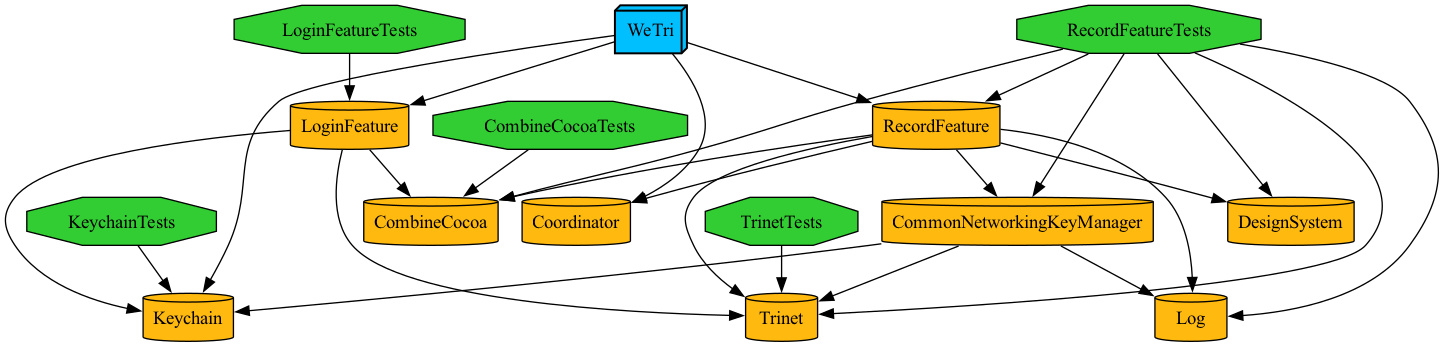
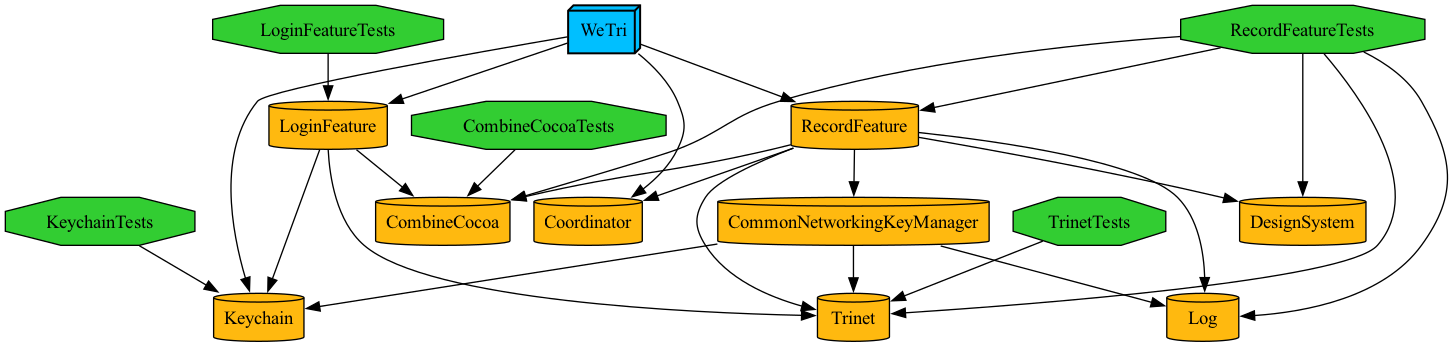
feat: 공통 Interceptor 생성

diff --git a/iOS/Projects/Shared/CommonNetworkingKeyManager/Sources/TNKeychainInterceptor.swift b/iOS/Projects/Shared/CommonNetworkingKeyManager/Sources/TNKeychainInterceptor.swift
@@ -1,0 +1,126 @@
+//
+//  TNKeychainInterceptor.swift
+//  ProjectDescriptionHelpers
+//
+//  Created by MaraMincho on 11/30/23.
+//
+
+import Foundation
+import Keychain
+import Log
+import Trinet
+
+// MARK: - TNKeychainInterceptor
+
+public final class TNKeychainInterceptor {
+  private let decoder = JSONDecoder()
+  public let shared = TNKeychainInterceptor()
+  private init() {}
+}
+
+// MARK: TNRequestInterceptor
+
+extension TNKeychainInterceptor: TNRequestInterceptor {
+  public func adapt(_ request: URLRequest, session _: URLSessionProtocol) -> URLRequest {
+    addAccessToken(request: request)
+  }
+
+  func addAccessToken(request: URLRequest) -> URLRequest {
+    guard let accessToken = TNKeyChainManager.accessToken else {
+      return request
+    }
+    var mutatableRequest = request
+    mutatableRequest.addValue(accessToken, forHTTPHeaderField: "Authorization")
+
+    return mutatableRequest
+  }
+
+  public func retry(
+    _ request: URLRequest,
+    session: URLSessionProtocol,
+    data: Data,
+    response: URLResponse,
+    delegate _: URLSessionDelegate?
+  ) async throws -> (Data, URLResponse) {
+    let code = try decoder.decode(GWResponse<String?>.self, from: data).code
+    if code == 401 {
+      try await refreshAccessToken(session: session)
+      try await refreshRefreshToken(session: session)
+      return try await session.data(for: request, delegate: nil)
+    }
+
+    return (data, response)
+  }
+}
+
+private extension TNKeychainInterceptor {
+  enum RefreshEndPoint: TNEndPoint {
+    case refreshAccessToken
+    case refreshRefreshToken
+    var path: String {
+      switch self {
+      case .refreshAccessToken:
+        return "api/v1/auth/token/access"
+      case .refreshRefreshToken:
+        return "api/v1/auth/token/refresh"
+      }
+    }
+
+    var method: TNMethod { .post }
+    var query: Encodable? { nil }
+    var body: Encodable? { nil }
+    var headers: TNHeaders { .default }
+  }
+
+  func refreshAccessToken(session: URLSessionProtocol) async throws {
+    let provider = TNProvider<RefreshEndPoint>(session: session)
+    let data = try await provider.request(.refreshAccessToken, interceptor: RefreshTokenAdaptor())
+    let gwResponse = try JSONDecoder().decode(GWResponse<RefreshAccessTokenResponse>.self, from: data)
+    guard
+      let token = gwResponse.data?.accessToken,
+      let tokenData = token.data(using: .utf8)
+    else {
+      throw TNError.serverError
+    }
+
+    Keychain.shared.save(key: "accessToken", data: tokenData)
+  }
+
+  func refreshRefreshToken(session: URLSessionProtocol) async throws {
+    let provider = TNProvider<RefreshEndPoint>(session: session)
+    let data = try await provider.request(.refreshRefreshToken, interceptor: RefreshTokenAdaptor())
+    let gwResponse = try JSONDecoder().decode(GWResponse<RefreshRefreshTokenResponse>.self, from: data)
+    guard
+      let token = gwResponse.data?.refreshToken,
+      let tokenData = token.data(using: .utf8)
+    else {
+      throw TNError.serverError
+    }
+
+    Keychain.shared.save(key: "refreshToken", data: tokenData)
+  }
+
+  enum TNKeyChainManager {
+    static var accessToken: String? {
+      guard
+        let accessTokenData = Keychain.shared.load(key: "accessToken"),
+        let accessToken = String(data: accessTokenData, encoding: .utf8)
+      else {
+        return nil
+      }
+      return accessToken
+    }
+  }
+}
+
+// MARK: - RefreshAccessTokenResponse
+
+struct RefreshAccessTokenResponse: Decodable {
+  let accessToken: String
+}
+
+// MARK: - RefreshRefreshTokenResponse
+
+struct RefreshRefreshTokenResponse: Decodable {
+  let refreshToken: String
+}

diff --git a/iOS/Projects/Shared/CommonNetworkingKeyManager/Sources/RefreshTokenAdaptor.swift b/iOS/Projects/Shared/CommonNetworkingKeyManager/Sources/RefreshTokenAdaptor.swift
@@ -1,0 +1,38 @@
+//
+//  RefreshTokenAdaptor.swift
+//  CommonNetworkingKeyManager
+//
+//  Created by MaraMincho on 11/30/23.
+//  Copyright © 2023 kr.codesquad.boostcamp8. All rights reserved.
+//
+
+import Foundation
+import Keychain
+import Trinet
+
+final class RefreshTokenAdaptor: TNRequestInterceptor {
+  func retry(_: URLRequest, session _: URLSessionProtocol, data: Data, response: URLResponse, delegate _: URLSessionDelegate?) async throws -> (Data, URLResponse) {
+    return (data, response)
+  }
+
+  func adapt(_ request: URLRequest, session _: URLSessionProtocol) -> URLRequest {
+    var mutatbleRequest = request
+    if let refreshToken = RefreshTokenManager.refreshToken {
+      let headerValue = "Bearer \(refreshToken)"
+      mutatbleRequest.addValue(headerValue, forHTTPHeaderField: "authorization")
+    }
+    return mutatbleRequest
+  }
+
+  enum RefreshTokenManager {
+    static var refreshToken: String? {
+      guard
+        let accessTokenData = Keychain.shared.load(key: "refreshToken"),
+        let accessToken = String(data: accessTokenData, encoding: .utf8)
+      else {
+        return nil
+      }
+      return accessToken
+    }
+  }
+}

diff --git a/iOS/Projects/Shared/CommonNetworkingKeyManager/Sources/GWResponse.swift b/iOS/Projects/Shared/CommonNetworkingKeyManager/Sources/GWResponse.swift
@@ -1,0 +1,15 @@
+//
+//  GWResponse.swift
+//  CommonNetworkingKeyManager
+//
+//  Created by MaraMincho on 11/30/23.
+//  Copyright © 2023 kr.codesquad.boostcamp8. All rights reserved.
+//
+
+import Foundation
+
+struct GWResponse<T>: Decodable where T: Decodable {
+  let code: Int?
+  let errorMessage: String?
+  let data: T?
+}

diff --git a/iOS/Projects/Core/Keychain/Sources/Keychain.swift b/iOS/Projects/Core/Keychain/Sources/Keychain.swift
@@ -9,7 +9,7 @@ import Foundation
 import Security
 
 public final class Keychain: Keychaining {
-  static let shared = Keychain()
+  public static let shared = Keychain()
 
   private init() {}
 

diff --git a/iOS/Projects/Shared/CommonNetworkingKeyManager/Project.swift b/iOS/Projects/Shared/CommonNetworkingKeyManager/Project.swift
@@ -9,4 +9,3 @@ let project = Project.makeModule(
     dependencies: [.log, .keychain, .trinet]
   )
 )
-
